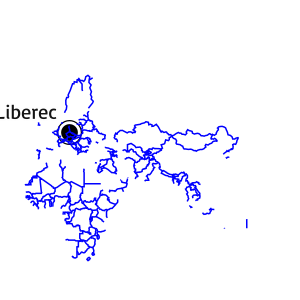
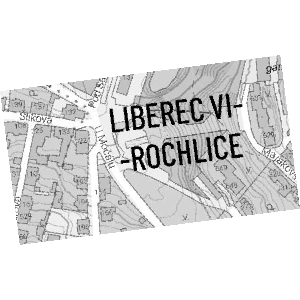
replace removed geoportal external WMS endpoint

diff --git a/test_tools/data/map.py b/test_tools/data/map.py
@@ -33,21 +33,21 @@ def get_map_with_internal_layers_json(layers, *, native_extent=None, native_crs=
                 "metadata": {},
                 "visibility": True,
                 "opacity": 1,
-                "title": "Defini\u010dn\u00ed body administrativn\u00edch celk\u016f",
+                "title": "Liberec raster",
                 "className": "HSLayers.Layer.WMS",
                 "singleTile": True,
                 "wmsMaxScale": 0,
                 "legends": [
-                    "https%3A%2F%2Fgeoportal.kraj-lbc.cz%2Fcgi-bin%2Fmapserv%3Fmap%3D%2Fdata%2Fgis%2FMapServer%2Fprojects%2Fwms%2Fatlas%2Fadministrativni_cleneni.map%26version%3D1.3.0%26service%3DWMS%26request%3DGetLegendGraphic%26sld_version%3D1.1.0%26layer%3Ddefinicni_body_administrativnich_celku%26format%3Dimage%2Fpng%26STYLE%3Ddefault"
+                    "https://hub4everybody.com/geoserver/layman_test_cases/wms?SERVICE=WMS&VERSION=1.3.0&REQUEST=GetLegendGraphic&FORMAT=image/png&LAYER=layman_test_cases:liberec_raster"
                 ],
                 "maxResolution": None,
                 "minResolution": 0,
-                "url": "https%3A%2F%2Fgeoportal.kraj-lbc.cz%2Fcgi-bin%2Fmapserv%3Fmap%3D%2Fdata%2Fgis%2FMapServer%2Fprojects%2Fwms%2Fatlas%2Fadministrativni_cleneni.map%26",
+                "url": "https://hub4everybody.com/geoserver/layman_test_cases/wms",
                 "params": {
-                    "LAYERS": "definicni_body_administrativnich_celku",
+                    "LAYERS": "layman_test_cases:liberec_raster",
                     "INFO_FORMAT": "application/vnd.ogc.gml",
                     "FORMAT": "image/png",
-                    "FROMCRS": "EPSG:3857",
+                    "CRS": "EPSG:3857",
                     "VERSION": "1.3.0"
                 },
                 "dimensions": {}